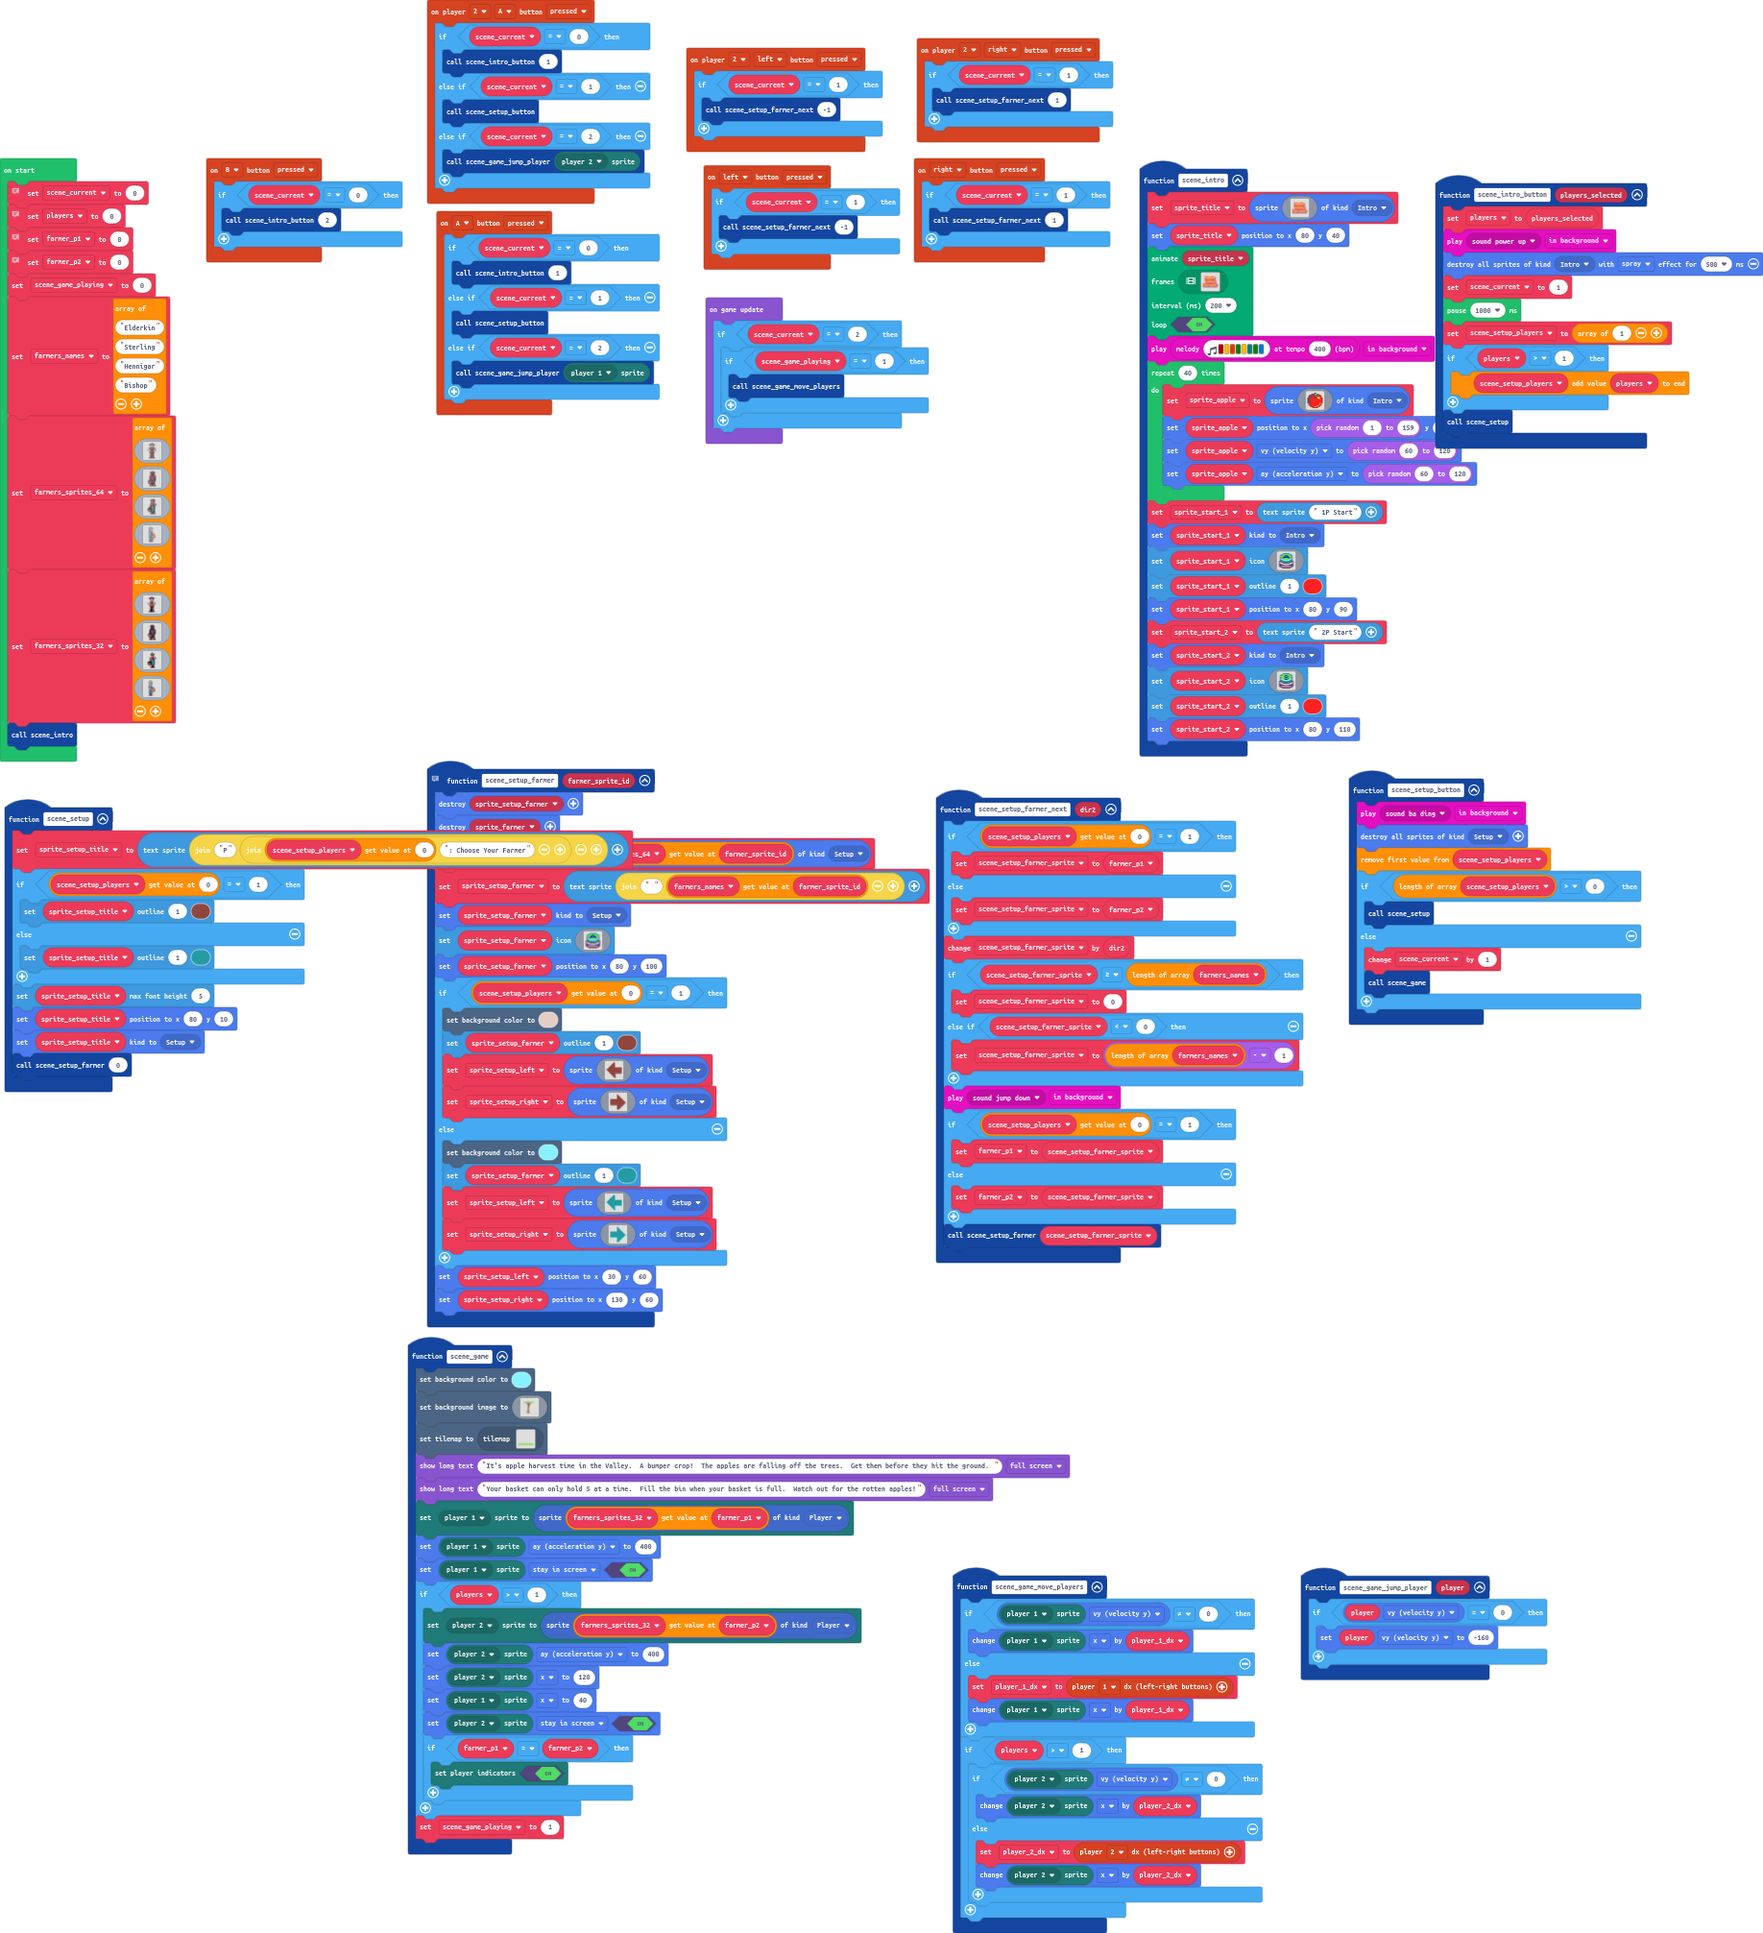
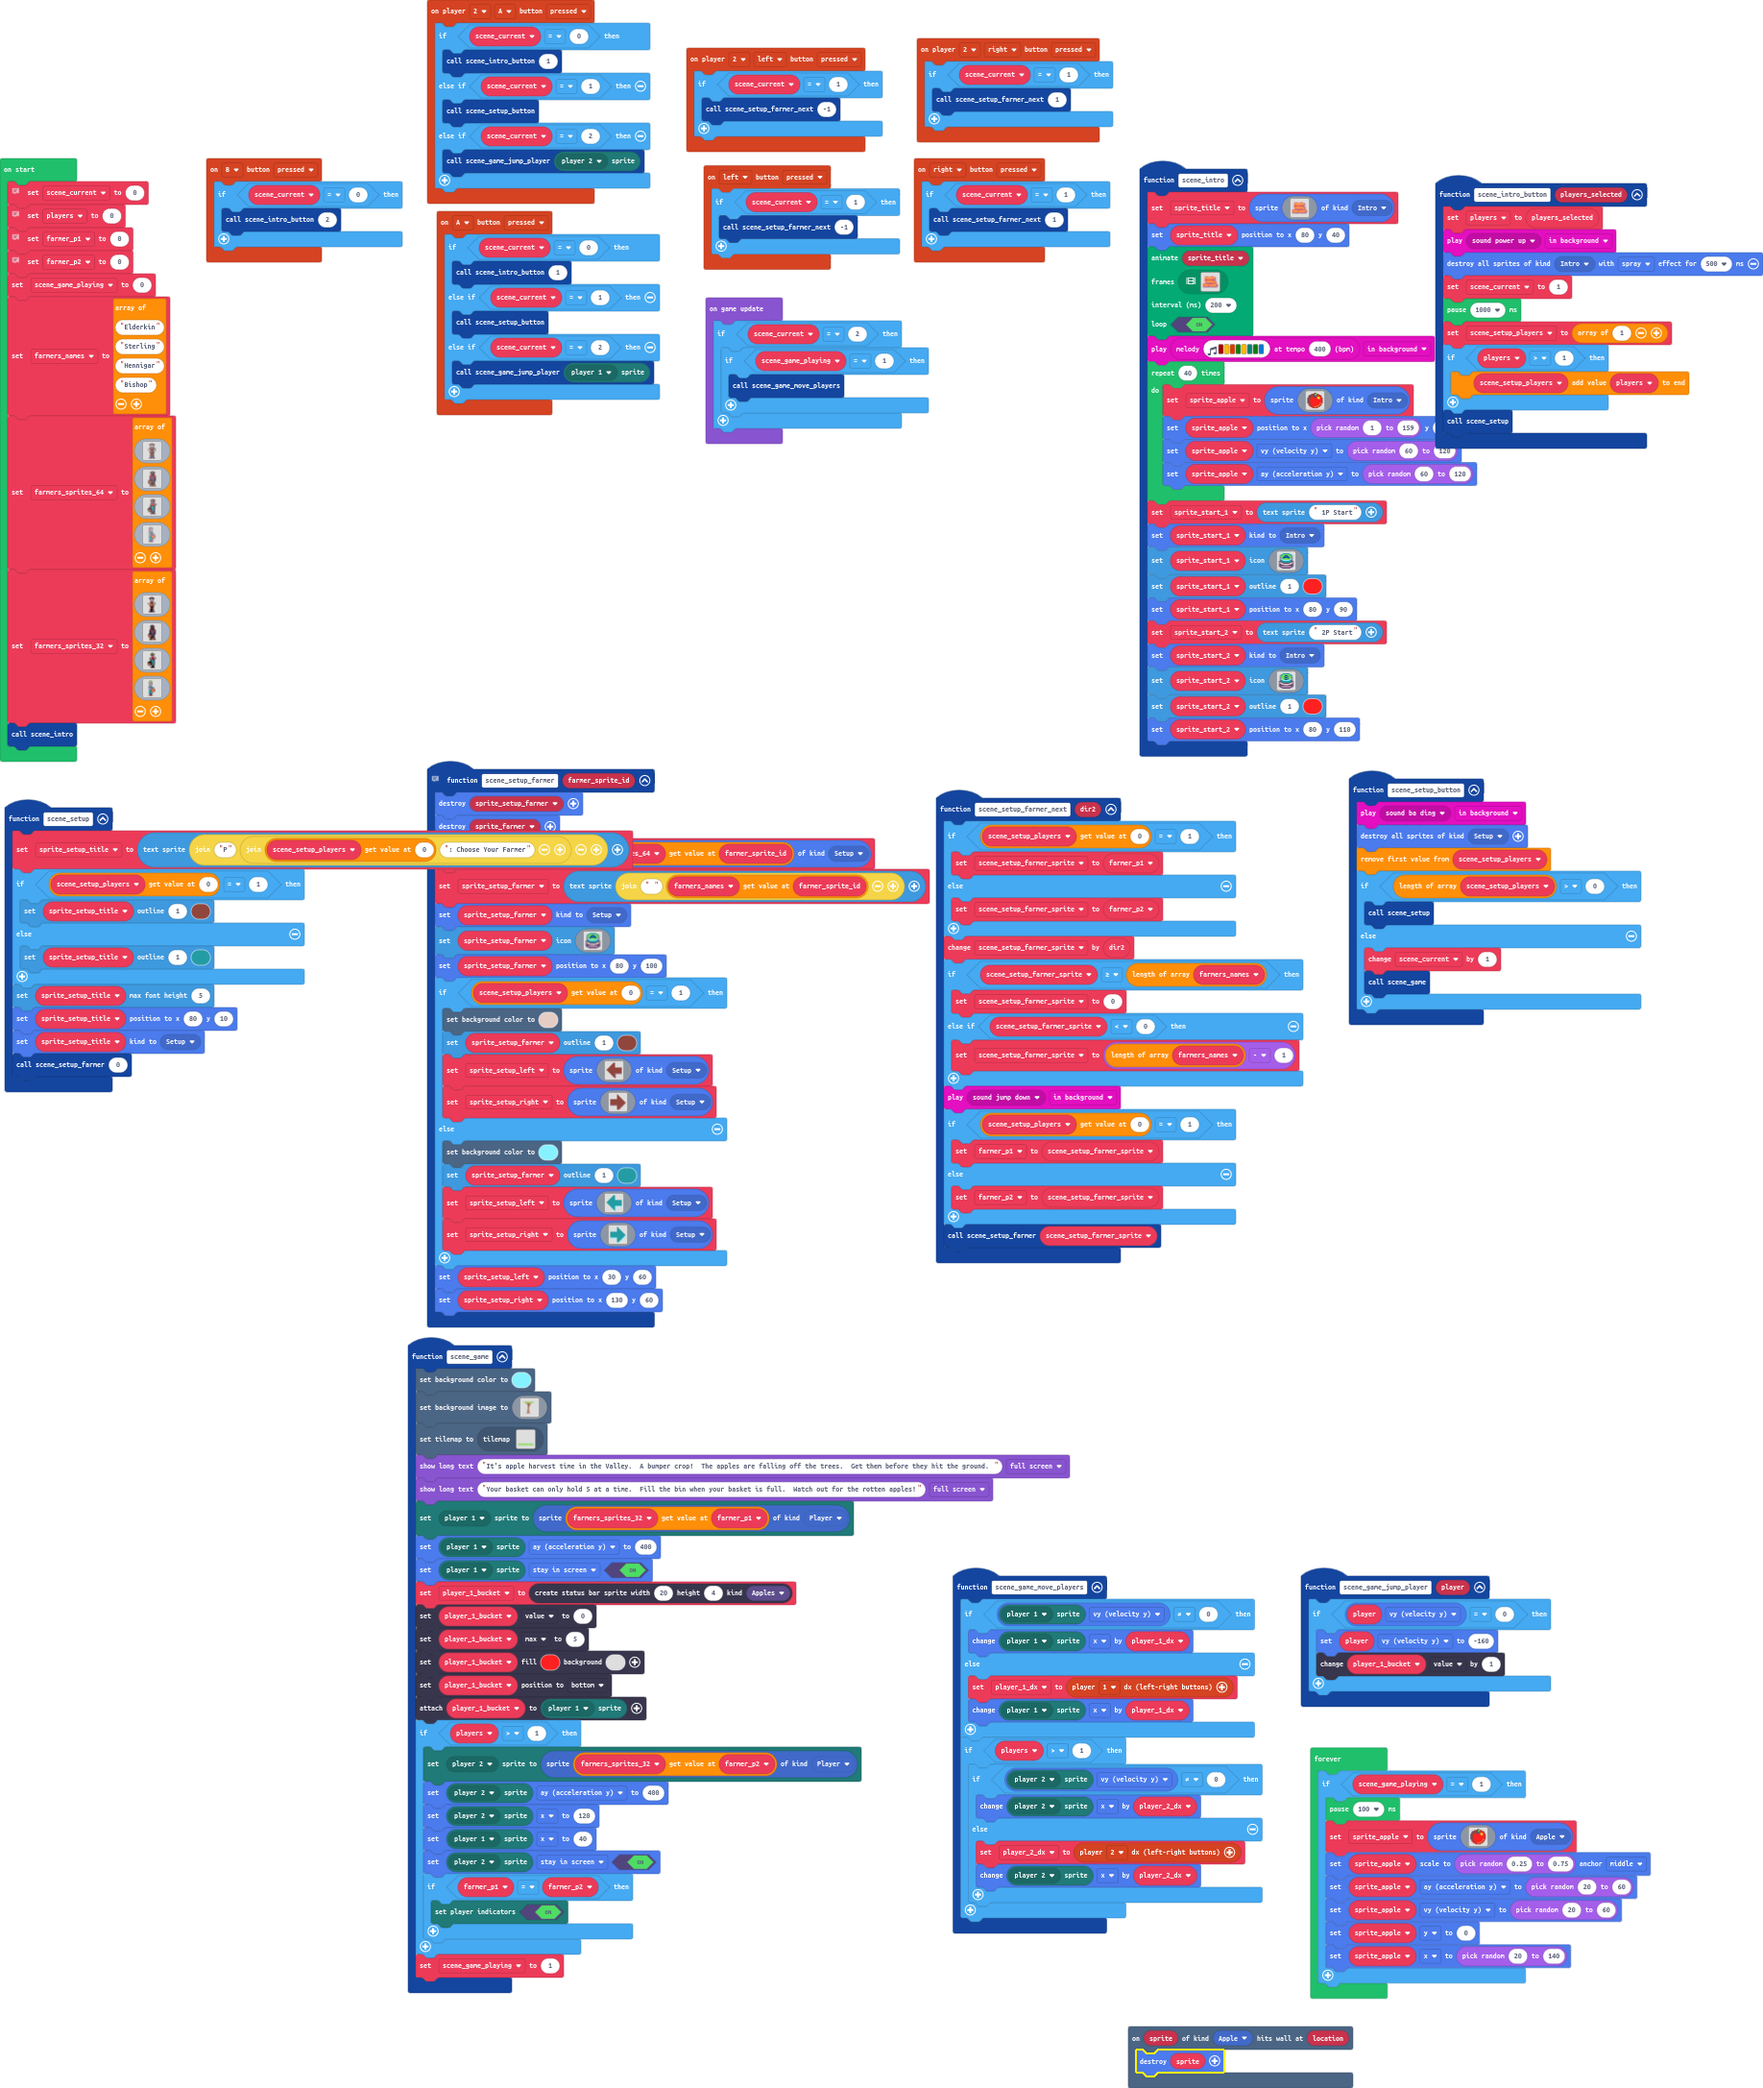
falling apples; basket bar

diff --git a/main.ts b/main.ts
@@ -2,6 +2,10 @@ namespace SpriteKind {
     export const Wall = SpriteKind.create()
     export const Intro = SpriteKind.create()
     export const Setup = SpriteKind.create()
+    export const Apple = SpriteKind.create()
+}
+namespace StatusBarKind {
+    export const Apples = StatusBarKind.create()
 }
 function scene_setup_farmer_next (dir2: number) {
     if (scene_setup_players[0] == 1) {
@@ -90,6 +94,9 @@ function scene_setup () {
     sprite_setup_title.setKind(SpriteKind.Setup)
     scene_setup_farmer(0)
 }
+scene.onHitWall(SpriteKind.Apple, function (sprite, location) {
+    sprites.destroy(sprite)
+})
 // Sets the setup screen to the farmer ID for player consideration
 function scene_setup_farmer (farmer_sprite_id: number) {
     sprites.destroy(sprite_setup_farmer)
@@ -116,6 +123,7 @@ function scene_setup_farmer (farmer_sprite_id: number) {
 function scene_game_jump_player (player2: Sprite) {
     if (player2.vy == 0) {
         player2.vy = -160
+        player_1_bucket.value += 1
     }
 }
 function scene_intro_button (players_selected: number) {
@@ -260,6 +268,12 @@ function scene_game () {
     mp.setPlayerSprite(mp.playerSelector(mp.PlayerNumber.One), sprites.create(farmers_sprites_32[farmer_p1], SpriteKind.Player))
     mp.getPlayerSprite(mp.playerSelector(mp.PlayerNumber.One)).ay = 400
     mp.getPlayerSprite(mp.playerSelector(mp.PlayerNumber.One)).setFlag(SpriteFlag.StayInScreen, true)
+    player_1_bucket = statusbars.create(20, 4, StatusBarKind.Apples)
+    player_1_bucket.value = 0
+    player_1_bucket.max = 5
+    player_1_bucket.setColor(2, 0)
+    player_1_bucket.positionDirection(CollisionDirection.Bottom)
+    player_1_bucket.attachToSprite(mp.getPlayerSprite(mp.playerSelector(mp.PlayerNumber.One)))
     if (players > 1) {
         mp.setPlayerSprite(mp.playerSelector(mp.PlayerNumber.Two), sprites.create(farmers_sprites_32[farmer_p2], SpriteKind.Player))
         mp.getPlayerSprite(mp.playerSelector(mp.PlayerNumber.Two)).ay = 400
@@ -316,6 +330,7 @@ controller.player2.onButtonEvent(ControllerButton.Left, ControllerButtonEvent.Pr
 })
 let player_2_dx = 0
 let player_1_dx = 0
+let player_1_bucket: StatusBarSprite = null
 let sprite_setup_right: Sprite = null
 let sprite_setup_left: Sprite = null
 let sprite_farmer: Sprite = null
@@ -372,5 +387,16 @@ game.onUpdate(function () {
         if (scene_game_playing == 1) {
             scene_game_move_players()
         }
+    }
+})
+forever(function () {
+    if (scene_game_playing == 1) {
+        pause(100)
+        sprite_apple = sprites.create(assets.image`sprite_apple`, SpriteKind.Apple)
+        sprite_apple.setScale(randint(0.25, 0.75), ScaleAnchor.Middle)
+        sprite_apple.ay = randint(20, 60)
+        sprite_apple.vy = randint(20, 60)
+        sprite_apple.y = 0
+        sprite_apple.x = randint(20, 140)
     }
 })
